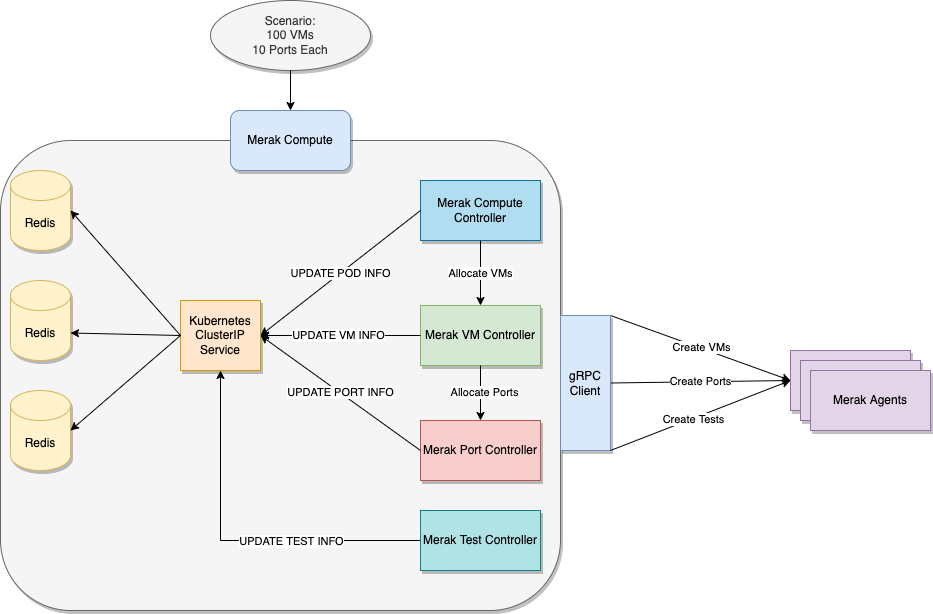
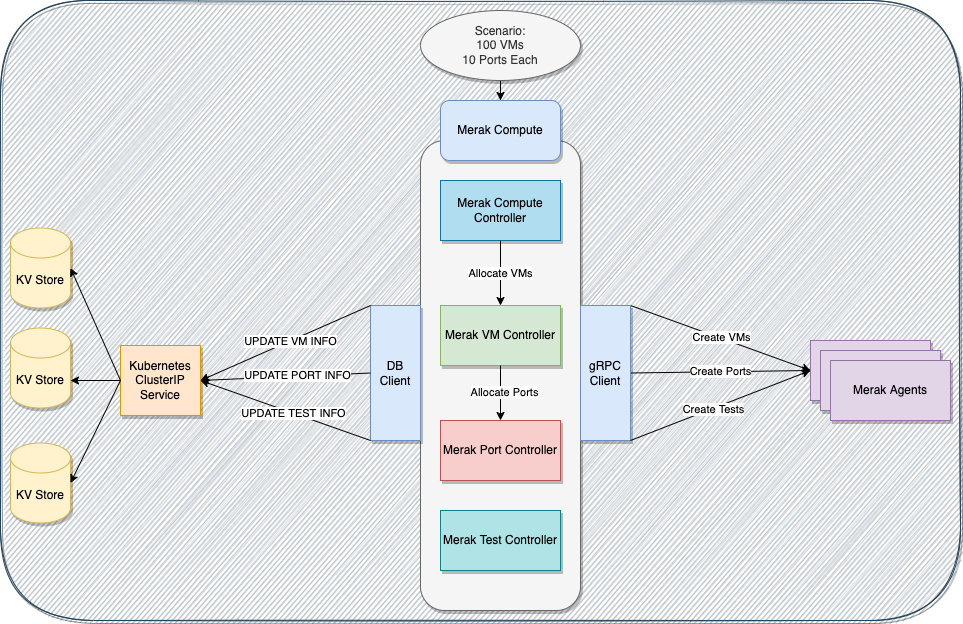
design update

diff --git a/docs/components/merak_compute.md b/docs/components/merak_compute.md
@@ -2,6 +2,8 @@
 
 Merak compute manages the allocation of virtual machines and ports.
 
+![merak compute design diagram](../images/merak_compute_design_diagram.png)
+
 ## Services
 
 The following services are provided over gRPC
@@ -111,9 +113,6 @@ The following are the three VM and Port scheduling settings.
 
 **Random**: VM/Port will be created at a random rate.
 
-## Workflow
-
-![merak compute design diagram](../images/merak_compute_design_diagram.png)
 ## Data Model
 
 
@@ -121,75 +120,60 @@ The following are the three VM and Port scheduling settings.
 #### Compute Datamodel
 
 - Pod
-  - Name
+  - ID
   - IP
     - VMs
-      - Ports
-          - Name
-          - Tenant
-          - VPC
-          - Subnet
-          - Security Group
-          - IP
+
+- VM
+  - ID
+    - Ports
+
+- Ports
+  - ID
+  - VM
+  - Tenant
+  - VPC
+  - Subnet
+  - Security Group
+  - IP
+
 
 Example:
 ```
 {
     "pod":
     {
-        "name": "pod1",
+        "id": "pod1",
         "ip": "10.0.0.2",
-        "vms":
-        [
-            {
-                "name": "vm1"
-                "ports":
-                [
-                    {
-                        "name": "port1",
-                        "tenant": "tenant1",
-                        "vpc": "vpc1",
-                        "subnet": "subnet1",
-                        "security_group": "sg1",
-                        "ip": "20.0.0.2",
-                    },
-                    {
-                        "name": "port2",
-                        "tenant": "tenant1",
-                        "vpc": "vpc1",
-                        "subnet": "subnet1",
-                        "security_group": "sg1",
-                        "ip": "20.0.0.3"
-                    }
-                ]
-
-            },
-            {
-                "name": "vm2",
-                "ports":
-                [
-                    {
-                        "name": "port1",
-                        "tenant": "tenant1",
-                        "vpc": "vpc1",
-                        "subnet": "subnet1",
-                        "security_group": "sg1",
-                        "ip": "20.0.0.4"
-                    },
-                    {
-                        "name": "port2",
-                        "tenant": "tenant1",
-                        "vpc": "vpc1",
-                        "subnet": "subnet1",
-                        "security_group": "sg1",
-                        "ip": "20.0.0.5"
-                    }
-                ]
-
-            }
-        ]
+        "vms": ["vm1","vm2"]
     }
 }
+```
+
+```
+{
+  "vm":
+  {
+      "id": "vm1"
+      "ports": ["port1", "port2"]
+  }
+}
+```
+
+```
+{
+  "port":
+  {
+      "id": "port1",
+      "vm": "vm1"
+      "tenant": "tenant1",
+      "vpc": "vpc1",
+      "subnet": "subnet1",
+      "security_group": "sg1",
+      "ip": "20.0.0.2",
+  }
+}
+
 ```
 
 #### Test Datamodel
@@ -254,5 +238,4 @@ Example:
 }
 ```
 ### Data Storage
-Merak Compute will use a Redis Cluster behind a Kubernetes ClusterIP service.
-Using the RedisJson module, Pod JSON objects will be mapped to unique IDs.
+Merak Compute will use a distributed KV Datastore behind a Kubernetes ClusterIP service.

diff --git a/docs/components/merak_agent.md b/docs/components/merak_agent.md
@@ -1,6 +1,8 @@
 # Merak Agent
 Manages VM creation and provides an interface to allocate an endpoint/port on a single node for a specific network provider.
 
+![merak agent design diagram](../images/merak_agent_design.png)
+
 ## Services
 
 The following services are exposed by the Merak Agent over gRPC
